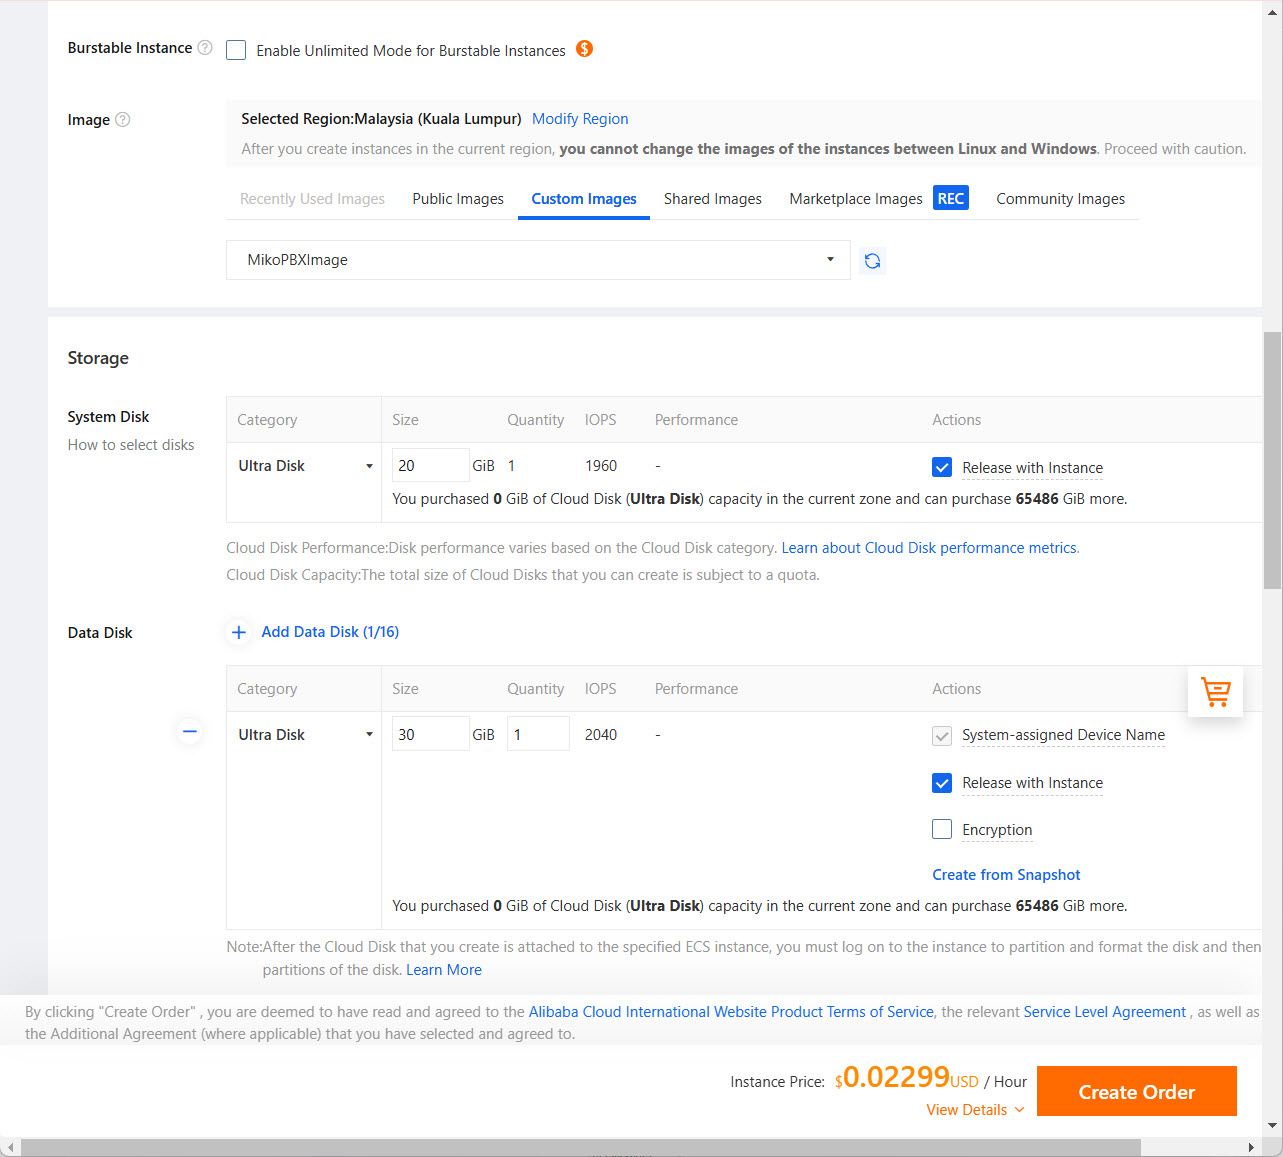
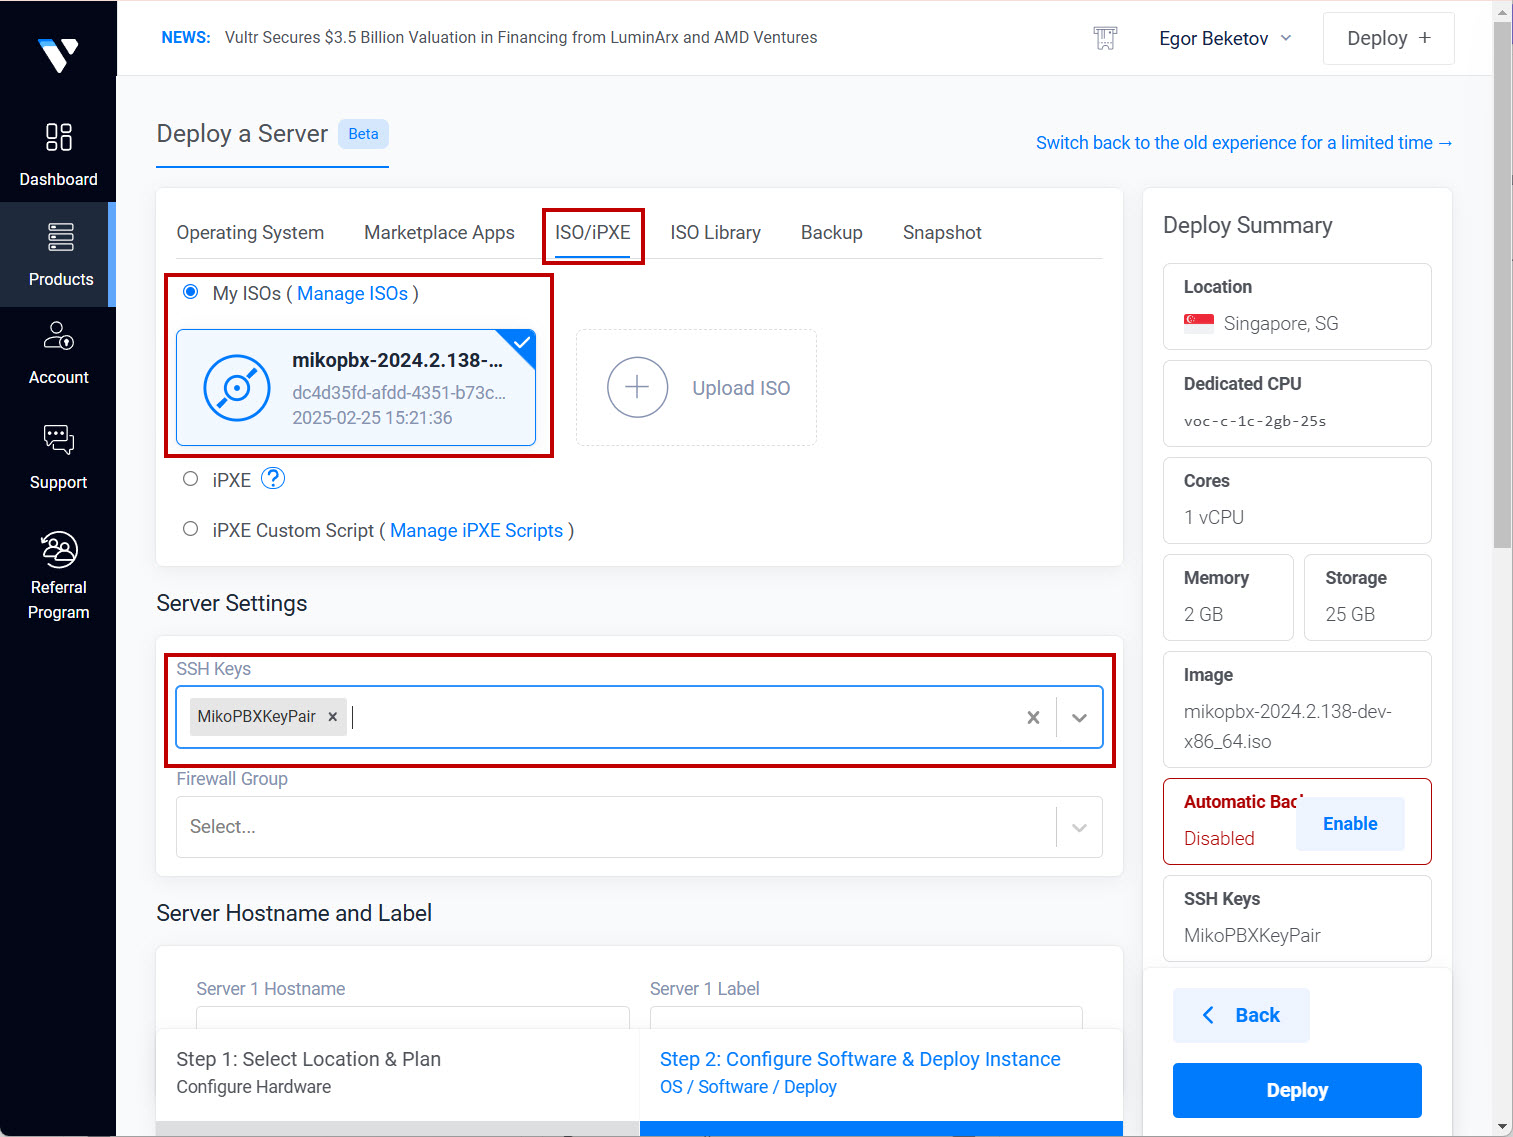
GITBOOK-397: No subject

diff --git a/setup/cloud/vultr-in-dev.md b/setup/cloud/vultr-in-dev.md
@@ -39,7 +39,7 @@ First, you need to upload the image to the cloud platform.
 
 6. The storage information will display S3 connection details.
 
-<figure><img src="../../.gitbook/assets/s3Credetionals.jpg" alt=""><figcaption></figcaption></figure>
+<figure><img src="../../.gitbook/assets/s3Credetionals.jpg" alt=""><figcaption><p>S3 Credetials</p></figcaption></figure>
 
 7. Next, connect to your storage via WinSCP. Open WinSCP and select **"New Site"**:
 
@@ -68,59 +68,117 @@ Click **"Login"**.
 
 <figure><img src="../../.gitbook/assets/CurrentPermission.jpg" alt=""><figcaption><p>"Change Access"</p></figcaption></figure>
 
-#### Importing the ISO
+### Importing the ISO
 
 1. Click the three dots to the right of the file name and select **"Copy URL"**.
+
+<figure><img src="../../.gitbook/assets/CopyURL.jpg" alt=""><figcaption><p>"Copy URL" button</p></figcaption></figure>
+
 2. Navigate to **"Orchestration"** → **"ISOs"**:
+
+<figure><img src="../../.gitbook/assets/ISOs Section.jpg" alt=""><figcaption><p>"ISOs" section</p></figcaption></figure>
+
 3. Click **"Add ISO"**:
+
+<figure><img src="../../.gitbook/assets/AddISO.jpg" alt=""><figcaption><p>"Add ISO" button</p></figcaption></figure>
+
 4. Paste the link to your previously uploaded file and click **"Upload"**.
 
-### Adding an SSH Key Pair
+## Adding an SSH Key Pair
 
 1. Go to **"Account"** → **"SSH Keys"**. Click **"Add SSH Key"**:
-2. Generate an SSH key pair [following this guide](https://chatgpt.com/faq/troubleshooting/connecting-to-a-pbx-using-ssh/).
+
+<figure><img src="../../.gitbook/assets/addSSHKey.jpg" alt=""><figcaption><p>"Add SSH Key" button</p></figcaption></figure>
+
+2. Generate an SSH key pair [following this guide](../../faq/troubleshooting/connecting-to-a-pbx-using-ssh/).
 3.  In the interface for adding the key pair, provide a custom name and paste your **public** SSH key.
 
     Click **"Add SSH Key"**.
 
-### Creating a Virtual Machine
+<figure><img src="../../.gitbook/assets/SSHkeysParameters.jpg" alt=""><figcaption><p>Adding SSH Key Pair</p></figcaption></figure>
+
+## Creating a Virtual Machine
 
 1. Go to **"Products"** → **"Compute"**:
+
+<figure><img src="../../.gitbook/assets/computeSection.jpg" alt=""><figcaption><p>"Compute" section</p></figcaption></figure>
+
 2. Click **"Deploy Server"**:
+
+<figure><img src="../../.gitbook/assets/deployServer.jpg" alt=""><figcaption><p>"Deploy Server" button</p></figcaption></figure>
+
 3. In the next section, select the region and configuration for your virtual machine.
-4.  Continue configuring the server:
 
-    * Under **ISO/iPXE**, select the previously uploaded ISO.
-    * Select the SSH key pair you created.
+<figure><img src="../../.gitbook/assets/VMParameters1.jpg" alt=""><figcaption><p>VM Parameters №1</p></figcaption></figure>
 
-    Click **"Deploy"**.
+4. Continue configuring the server:
 
-### Creating a Second Disk
+* Under **ISO/iPXE**, select the previously uploaded ISO.
+* Select the SSH key pair you created.
+
+Click **"Deploy"**.
+
+<figure><img src="../../.gitbook/assets/VMParameters2.jpg" alt=""><figcaption><p>VM Parameters №2</p></figcaption></figure>
+
+## Creating a Second Disk
 
 After the server is created, power it off.
 
 1. Go to **"Cloud Storage"** → **"Block Storage"**:
-2. Click **"Add Block Storage"**:
-3.  Select the disk type, region (same as the VM), size, and a custom name.
 
-    \{% hint style="success" %\} We recommend at least **50GB** for storing call recordings. This guide uses 30GB as an example. \{% endhint %\}
+<figure><img src="../../.gitbook/assets/blockStorageSection.jpg" alt=""><figcaption><p>"Block Storage" section</p></figcaption></figure>
+
+2. Click **"Add Block Storage"**:
+
+<figure><img src="../../.gitbook/assets/addBlockStorage.jpg" alt=""><figcaption><p>"Add Block Storage" button</p></figcaption></figure>
+
+3. Select the disk type, region (same as the VM), size, and a custom name.
+
+{% hint style="warning" %}
+We recommend at least **50GB** for storing call recordings. This guide uses 30GB as an example.
+{% endhint %}
+
 4. Go to the management page for the newly created block storage. Attach the volume to your virtual machine using the **"Attach to:"** option.
 
-### Installing the System
+<figure><img src="../../.gitbook/assets/attachTo.jpg" alt=""><figcaption><p>"Attach to" option</p></figcaption></figure>
+
+## Installing the System
 
 1. Go to your virtual machine management page.
+
+<figure><img src="../../.gitbook/assets/serverInformation.jpg" alt=""><figcaption><p>"Server Information" page</p></figcaption></figure>
+
 2. Open the console by clicking the relevant button:
+
+<figure><img src="../../.gitbook/assets/ConsoleButton.jpg" alt=""><figcaption><p>"Console" button</p></figcaption></figure>
+
 3. You will enter the built-in console.
+
+<figure><img src="../../.gitbook/assets/internalConsole.jpg" alt=""><figcaption><p>Built-in console</p></figcaption></figure>
+
 4. Navigate to **"\[8] Install"**.
 5. Select the disk to be used as the system disk. Confirm by typing **"y"** and pressing **"Enter"**:
+
+<figure><img src="../../.gitbook/assets/mountingSystemDrive.jpg" alt=""><figcaption><p>Installing system</p></figcaption></figure>
+
 6. Select the disk for storing call recordings. The system will reboot.
 7. Go to **"Settings"** for your virtual machine and then **"Custom ISO"**. Click **"Remove ISO"**.
 
+<figure><img src="../../.gitbook/assets/removeISO.jpg" alt=""><figcaption><p>"Remove ISO" element</p></figcaption></figure>
+
 At this point, MikoPBX is installed and ready to use.
 
-### Connecting to the Web Interface
+## Connecting to the Web Interface
 
-1. In your browser, enter the IP address of your virtual machine. You can find it in the MikoPBX console.
+1. In your browser, enter the IP adress of your virtual machine. You can find it in the MikoPBX console.
+
+<figure><img src="../../.gitbook/assets/MikoPBXIPadress.jpg" alt=""><figcaption><p>MikoPBX IP-adress</p></figcaption></figure>
+
 2. Log in using the following credentials:
-   * **Username**: admin
-   * **Password**: The VM ID, which looks like "150dd137-a0e2-45f6-baf9-ddc15a600d60" and can be found in the address bar (screenshot below).
+
+* **Username**: admin
+* **Password**: The VM ID, which looks like "150dd137-a0e2-45f6-baf9-ddc15a600d60" and can be found in the address bar (screenshot below).
+
+<figure><img src="../../.gitbook/assets/machineID.jpg" alt=""><figcaption><p>Machine ID</p></figcaption></figure>
+
+<figure><img src="../../.gitbook/assets/mikoPBXWebint.jpg" alt=""><figcaption><p>MikoPBX Web-interface</p></figcaption></figure>

diff --git a/setup/cloud/alibaba-cloud.md b/setup/cloud/alibaba-cloud.md
@@ -141,7 +141,7 @@ Click **Create Security Group**.
 * **Region**, **Network, and Zone** – Select the region and zone to match your needs.
 * **Instance** – Pick a configuration for your VM.
 
-<figure><img src="../../.gitbook/assets/VMParameters1.jpg" alt=""><figcaption><p>VM Parameters №1</p></figcaption></figure>
+<figure><img src="../../.gitbook/assets/VMParameters1 (1).jpg" alt=""><figcaption><p>VM Parameters №1</p></figcaption></figure>
 
 4. Configure additional VM parameters:
 
@@ -153,7 +153,7 @@ Click **Create Security Group**.
 We recommend a minimum of **50GB** for call recordings.In this guide we use 30GB as an example.
 {% endhint %}
 
-<figure><img src="../../.gitbook/assets/VMParameters2.jpg" alt=""><figcaption><p>VM Parameters №2</p></figcaption></figure>
+<figure><img src="../../.gitbook/assets/VMParameters2 (1).jpg" alt=""><figcaption><p>VM Parameters №2</p></figcaption></figure>
 
 5. Choose the network parameters for your VM. The security group created earlier will be assigned automatically:
 
